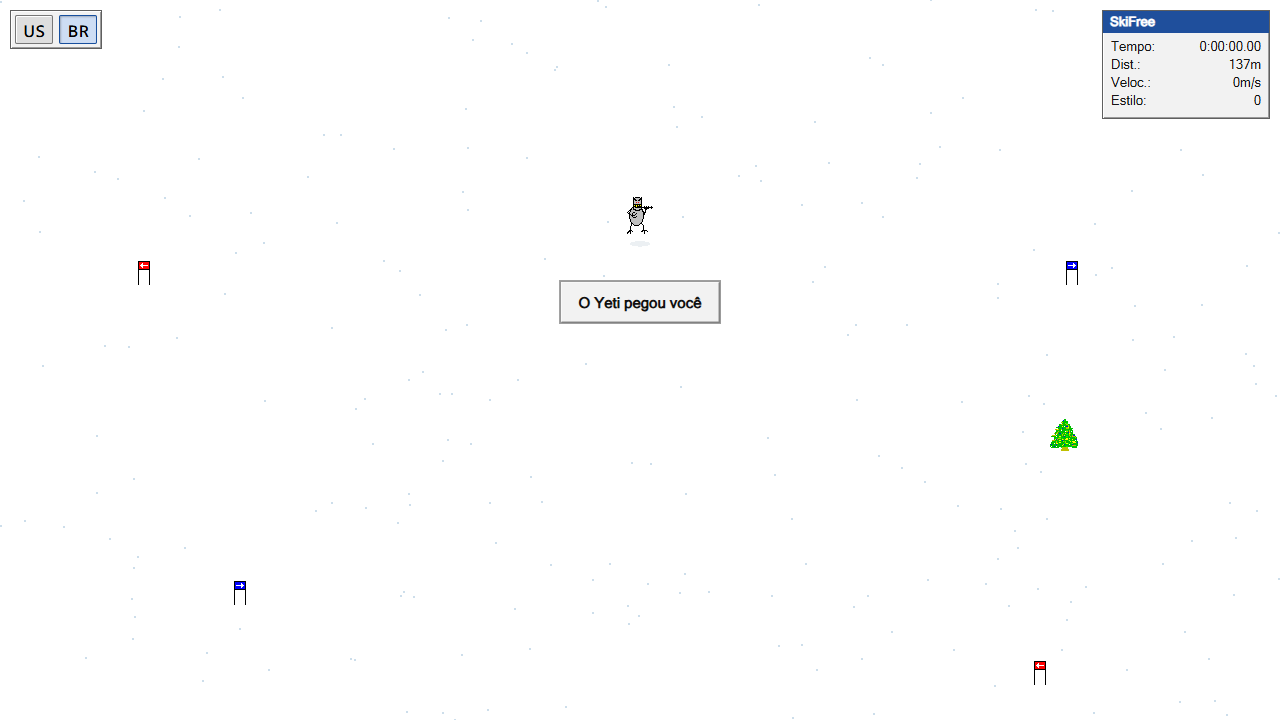
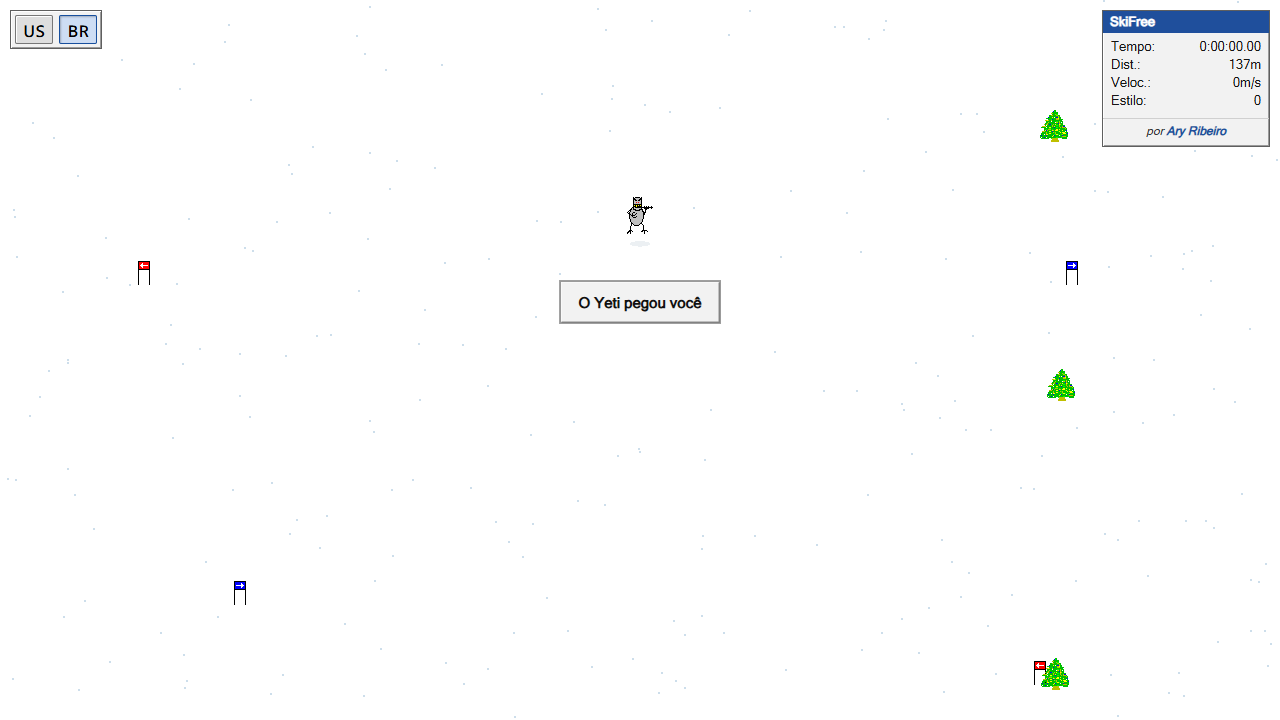
HUD: author credit with LinkedIn link

diff --git a/src/main.js b/src/main.js
@@ -99,6 +99,7 @@ const TRANSLATIONS = Object.freeze({
     resultHint: "Toque na tela ou pressione Enter para continuar",
     loading: "Carregando",
     loadFailed: "Falha ao carregar",
+    credit: "por",
     style: "estilo",
     flag: "Bandeira",
     points: "{value} estilo",
@@ -140,6 +141,7 @@ const TRANSLATIONS = Object.freeze({
     resultHint: "Tap the screen or press Enter to continue",
     loading: "Loading",
     loadFailed: "Failed to load",
+    credit: "by",
     style: "Style",
     flag: "Gate",
     points: "{value} points",
@@ -2296,6 +2298,7 @@ class SkiFreeGame {
   }
 
   onPointerDown(event) {
+    if (event.target.closest?.(".hud-credit a")) return;
     if (this.closeCourseResults()) return;
     if (this.gameOver || this.yetiAttack.finished) {
       this.restart();

diff --git a/index.html b/index.html
@@ -27,6 +27,7 @@
           <div><dt data-i18n="speedLabel">Veloc.:</dt><dd id="speed-value">0m/s</dd></div>
           <div><dt data-i18n="styleLabel">Estilo:</dt><dd id="style-value">0</dd></div>
         </dl>
+        <p class="hud-credit"><em><span data-i18n="credit">por</span> <a href="https://www.linkedin.com/in/aryribeiro" target="_blank" rel="noopener noreferrer"><strong>Ary Ribeiro</strong></a></em></p>
       </section>
       <div id="pause-card" data-i18n="paused" hidden>Pausado</div>
       <section id="course-result-card" aria-label="Recordes" hidden>

diff --git a/src/styles.css b/src/styles.css
@@ -182,6 +182,26 @@ body {
   align-items: baseline;
 }
 
+.hud-credit {
+  margin: 0;
+  padding: 0 8px 7px;
+  border-top: 1px solid #d0d0d0;
+  padding-top: 5px;
+  text-align: center;
+  font-size: 12px;
+  color: #333333;
+}
+
+.hud-credit a {
+  color: #1f4f9c;
+  text-decoration: none;
+}
+
+.hud-credit a:hover,
+.hud-credit a:focus-visible {
+  text-decoration: underline;
+}
+
 #hud dt {
   margin: 0;
 }
